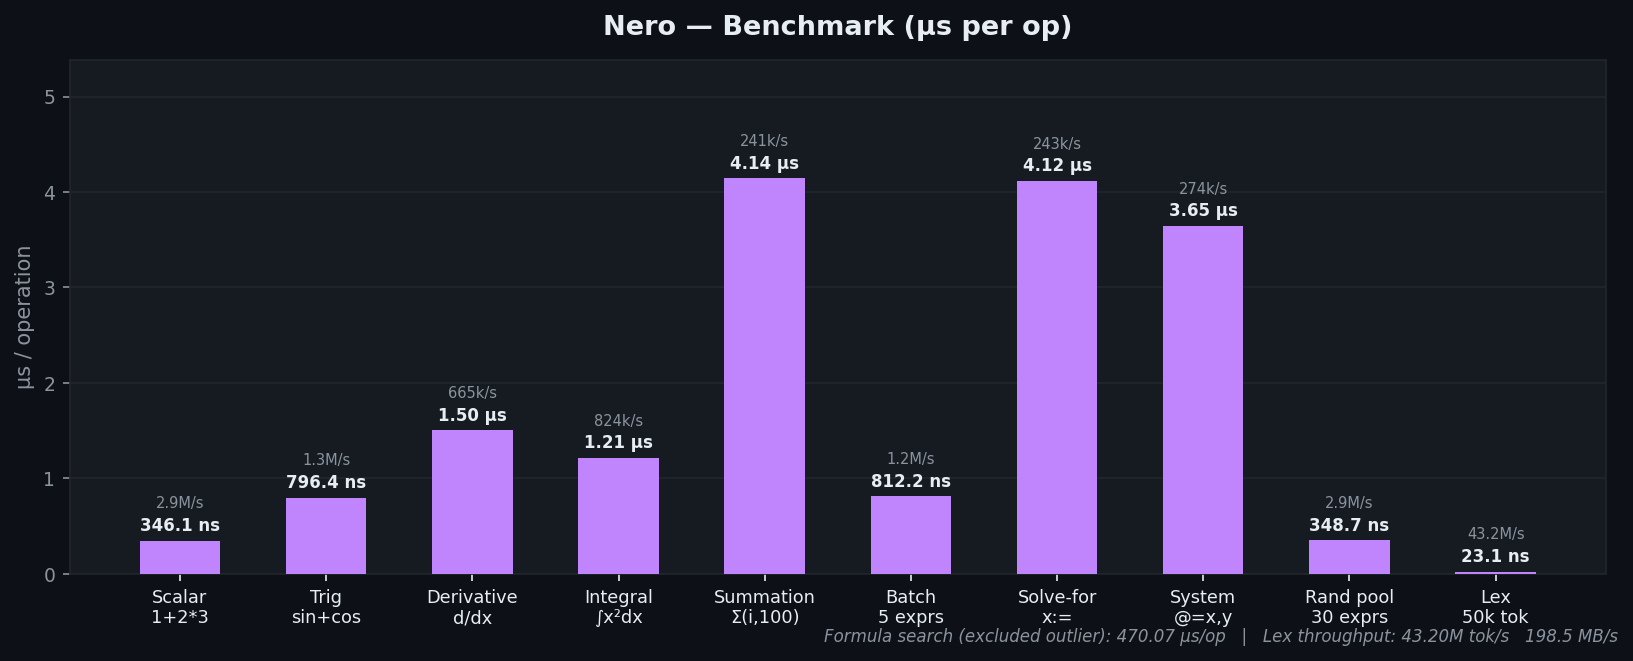
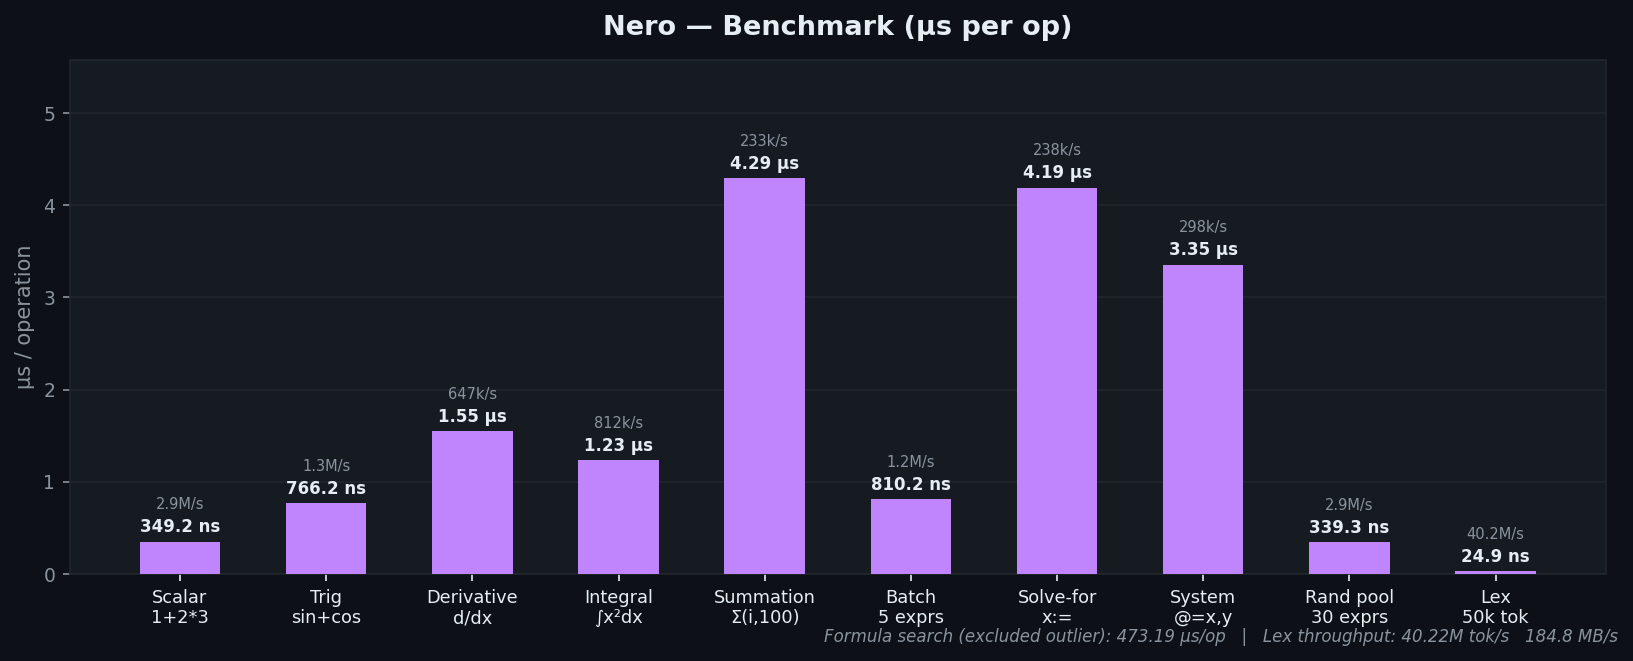
chore: include benchmark png

diff --git a/README.md b/README.md
@@ -175,17 +175,17 @@ Supported:
 
 | Benchmark      | µs / op    | ops / sec    | op unit |
 | -------------- | ---------- | ------------ | ------- |
-| Scalar         | 0.35 µs    | 2.86 M/s     | op      |
-| Trig           | 0.77 µs    | 1.31 M/s     | op      |
-| Derivative     | 1.55 µs    | 646.8 k/s    | op      |
-| Integral       | 1.23 µs    | 811.7 k/s    | op      |
-| Summation      | 4.29 µs    | 232.9 k/s    | op      |
-| Batch          | 0.81 µs    | 1.23 M/s     | expr    |
-| Formula search | 473.19 µs  | 2.1 k/s      | op      |
-| Solve-for      | 4.19 µs    | 238.5 k/s    | op      |
-| System solver  | 3.35 µs    | 298.1 k/s    | op      |
-| Random pool    | 0.34 µs    | 2.95 M/s     | expr    |
-| Lex            | 0.02 µs    | 40.22 M/s    | token   |
+| Scalar         | 0.36 µs    | 2.81 M/s     | op      |
+| Trig           | 0.77 µs    | 1.30 M/s     | op      |
+| Derivative     | 1.56 µs    | 641.0 k/s    | op      |
+| Integral       | 1.24 µs    | 806.5 k/s    | op      |
+| Summation      | 4.48 µs    | 223.0 k/s    | op      |
+| Batch          | 0.80 µs    | 1.25 M/s     | expr    |
+| Formula search | 468.19 µs  | 2.1 k/s      | op      |
+| Solve-for      | 4.17 µs    | 240.0 k/s    | op      |
+| System solver  | 3.23 µs    | 310.1 k/s    | op      |
+| Random pool    | 0.34 µs    | 2.92 M/s     | expr    |
+| Lex            | 0.03 µs    | 38.63 M/s    | token   |
 
 <details>
 <summary>Raw numbers</summary>
@@ -193,20 +193,20 @@ Supported:
 ```
 === Nero Benchmarks ===
 
-Scalar: 1 + 2 * 3                                           34.92 ms       2863774/s
-Trig: sin(pi/6) + cos(pi/3)                                 38.31 ms       1305110/s
-Derivative: d/dx(x^3) at x=2                                15.46 ms        646773/s
-Integral: int_0^1 x^2 dx                                     6.16 ms        811041/s
-Summation: sum_{i=1}^{100}(i)                               21.47 ms        232876/s
-Batch (5 unit-carrying exprs)                               40.51 ms        246865/s
-Formula search (acceleration target)                       473.19 ms          2113/s
-Solve-for: x^2 - 4 ; x :=                                   12.58 ms        238468/s
-System solver: x+y=5, x-y=1 ; @=x,y                          6.71 ms        298188/s
-Random pool (30 exprs, 1000 rounds)                         10.18 ms         98201/s
+Scalar: 1 + 2 * 3                                           35.60 ms       2808663/s
+Trig: sin(pi/6) + cos(pi/3)                                 38.53 ms       1297638/s
+Derivative: d/dx(x^3) at x=2                                15.60 ms        641031/s
+Integral: int_0^1 x^2 dx                                     6.20 ms        806717/s
+Summation: sum_{i=1}^{100}(i)                               22.42 ms        222970/s
+Batch (5 unit-carrying exprs)                               39.89 ms        250671/s
+Formula search (acceleration target)                       468.19 ms          2136/s
+Solve-for: x^2 - 4 ; x :=                                   12.50 ms        239960/s
+System solver: x+y=5, x-y=1 ; @=x,y                          6.45 ms        310188/s
+Random pool (30 exprs, 1000 rounds)                         10.26 ms         97468/s
 
 --- Lex Throughput ---
-Lex: 50k-token string (all token types)                    621.57 ms           804/s
-  Tokens/sec: 40.22M   Throughput: 184.8 MB/s
+Lex: 50k-token string (all token types)                    647.24 ms           773/s
+  Tokens/sec: 38.63M   Throughput: 177.5 MB/s
 ```
 
 </details>
